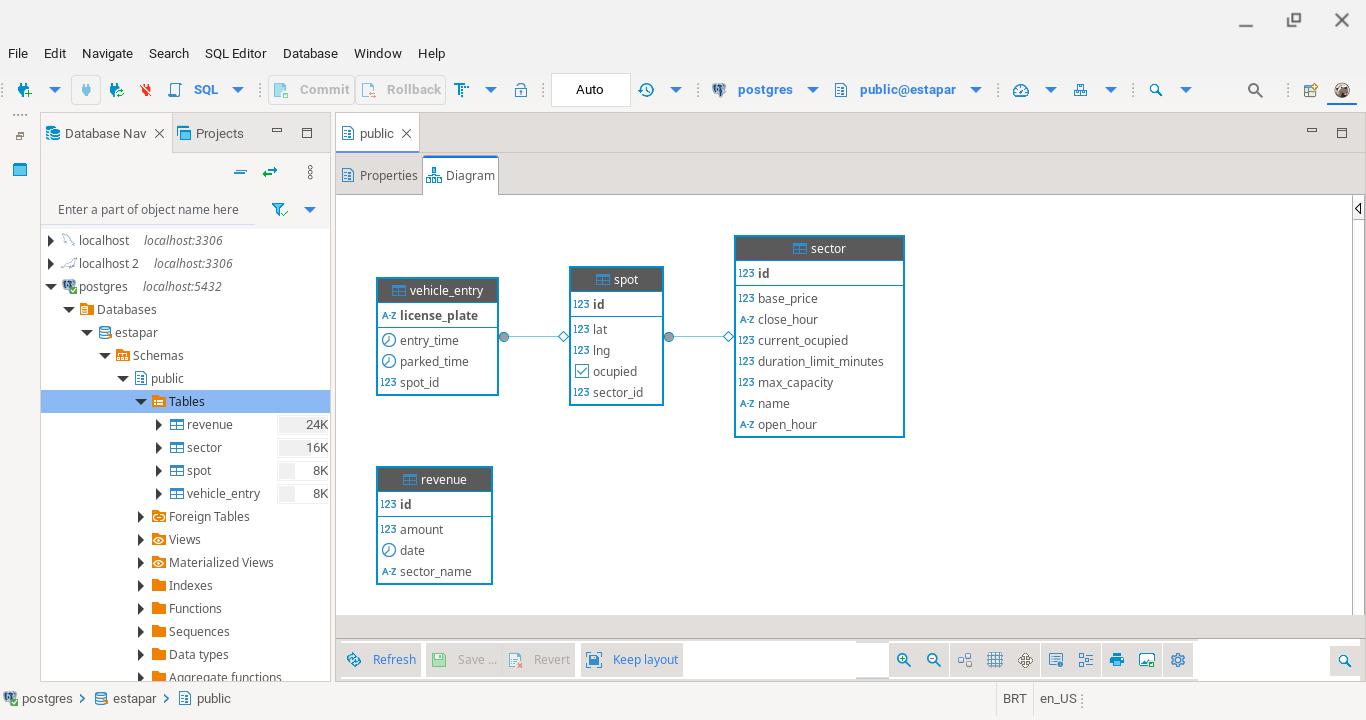
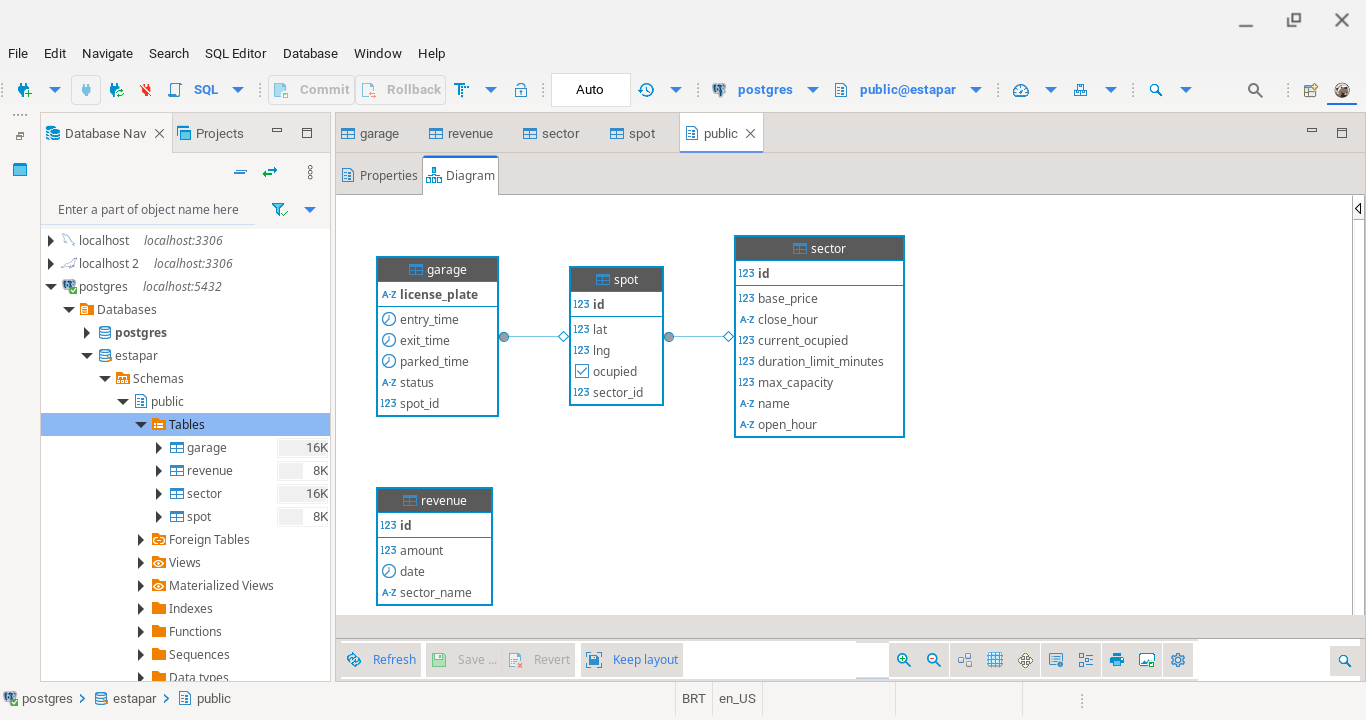
Ajustes nos codigos

diff --git a/src/main/kotlin/com/estapar/service/GarageService.kt b/src/main/kotlin/com/estapar/service/GarageService.kt
@@ -20,7 +20,7 @@ import org.slf4j.LoggerFactory
 open class GarageService(
     private val sectorRepo: SectorRepository,
     private val spotRepo: SpotRepository,
-    private val entryRepo: VehicleEntryRepository,
+    private val garageRepo: GarageRepository,
     private val revenueRepo: RevenueRepository,
     private val objectMapper: ObjectMapper
 ) {
@@ -28,12 +28,12 @@ open class GarageService(
 
     @Transactional
     open fun registerEntry(plate: String, entryTime: Instant) {
-        if (entryRepo.existsById(plate)) {
+        if (garageRepo.existsById(plate)) {
             LOG.warn("ENTRY Event: Vehicle entry for plate {} already exists. Skipping registration.", plate)
             return
         }
-        val newEntry = VehicleEntry(plate, entryTime)
-        entryRepo.save(newEntry)
+        val newEntry = Garage(plate, entryTime)
+        garageRepo.save(newEntry)
         LOG.info("ENTRY Event: Registered new vehicle entry for plate {}. EntryTime: {}", plate, entryTime)
     }
 
@@ -41,12 +41,12 @@ open class GarageService(
     open fun assignSpot(plate: String, lat: Double, lng: Double) {
         LOG.info("PARKED Event: Attempting to assign spot for plate: {}, lat: {}, lng: {}", plate, lat, lng)
 
-        val entry = entryRepo.findById(plate).orElse(null)
+        val entry = garageRepo.findById(plate).orElse(null)
         if (entry == null) {
             LOG.warn("PARKED Event: Vehicle entry not found for plate: {}. Cannot assign spot. This implies ENTRY event was not processed correctly or did not exist.", plate)
             return
         }
-        LOG.debug("PARKED Event: Found VehicleEntry for plate: {}", plate)
+        LOG.debug("PARKED Event: Found Garage for plate: {}", plate)
 
         val spot = spotRepo.findByLatAndLng(lat, lng)
 
@@ -74,7 +74,7 @@ open class GarageService(
         entry.parkedTime = Instant.now()
         entry.spot = savedSpot
         entry.status = "PARKED"
-        val savedEntry = entryRepo.save(entry)
+        val savedEntry = garageRepo.save(entry)
         LOG.info("PARKED Event: Vehicle entry for plate {} updated. ParkedTime: {}, Spot ID: {}. Status: {}", plate, savedEntry.parkedTime, savedEntry.spot?.id, savedEntry.status)
 
         sector.currentOcupied++
@@ -93,12 +93,12 @@ open class GarageService(
             return
         }
 
-        val entry = entryRepo.findById(plate).orElse(null)
+        val entry = garageRepo.findById(plate).orElse(null)
         if (entry == null) {
             LOG.warn("EXIT Event: Vehicle entry not found for plate: {}. Cannot process exit.", plate)
             return
         }
-        LOG.debug("EXIT Event: Found VehicleEntry for plate: {}", plate)
+        LOG.debug("EXIT Event: Found Garage for plate: {}", plate)
 
         var totalRevenueAmount = 0.0
         val spot = entry.spot
@@ -152,14 +152,14 @@ open class GarageService(
         }
 
         entry.exitTime = exitTime
-        entry.status = "EXITED"
+        entry.status = "EXIT"
         entry.spot = null
-        entryRepo.save(entry)
+        garageRepo.save(entry)
         LOG.info("EXIT Event: Vehicle entry for plate {} updated to exited status.", plate)
     }
 
     fun postPlateStatus(licensePlate: String): PlateStatusDTO {
-        val entry = entryRepo.findById(licensePlate).orElse(null)
+        val entry = garageRepo.findById(licensePlate).orElse(null)
         val now = Instant.now()
         val duration = if (entry != null) ((now.toEpochMilli() - (entry.parkedTime ?: entry.entryTime).toEpochMilli()) / 60000).toInt() else 0
         val basePrice = entry?.spot?.sector?.basePrice ?: 0.0
@@ -178,7 +178,7 @@ open class GarageService(
 
     fun postSpotStatus(lat: Double, lng: Double): SpotStatusDTO {
         val spot = spotRepo.findByLatAndLng(lat, lng)
-        val entry = spot?.let { s -> entryRepo.findBySpotAndStatus(s, "PARKED").orElse(null) }
+        val entry = spot?.let { s -> garageRepo.findBySpotAndStatus(s, "PARKED").orElse(null) }
         val now = Instant.now()
         val duration = if (entry != null) ((now.toEpochMilli() - (entry.parkedTime ?: entry.entryTime).toEpochMilli()) / 60000).toInt() else 0
         val basePrice = spot?.sector?.basePrice ?: 0.0

diff --git a/src/test/kotlin/com/estapar/repository/GarageRepositoryTest.kt b/src/test/kotlin/com/estapar/repository/GarageRepositoryTest.kt
@@ -1,0 +1,98 @@
+package com.estapar.repository
+
+import com.estapar.model.Spot
+import com.estapar.model.Sector
+import com.estapar.model.Garage
+import org.junit.jupiter.api.Test
+import org.junit.jupiter.api.extension.ExtendWith
+import org.mockito.Mock
+import org.mockito.junit.jupiter.MockitoExtension
+import org.mockito.kotlin.*
+import java.time.Instant
+import java.util.Optional
+import org.assertj.core.api.Assertions.assertThat
+
+@ExtendWith(MockitoExtension::class)
+class GarageRepositoryTest {
+
+    @Mock
+    private lateinit var garageRepository: GarageRepository
+
+    @Test
+    fun findByIdShouldReturnOptionalOfVehicleEntryWhenFound() {
+        val licensePlate = "ABC1234"
+        val expectedEntry = Garage(licensePlate = licensePlate, entryTime = Instant.now())
+
+        whenever(garageRepository.findById(licensePlate)).thenReturn(Optional.of(expectedEntry))
+
+        val result = garageRepository.findById(licensePlate)
+
+        assertThat(result).isEqualTo(Optional.of(expectedEntry))
+        verify(garageRepository).findById(eq(licensePlate))
+    }
+
+    @Test
+    fun saveShouldPersistANewVehicleEntry() {
+        val newEntry = Garage(licensePlate = "NEW4567", entryTime = Instant.now())
+
+        whenever(garageRepository.save(argThat { entry -> entry.licensePlate == newEntry.licensePlate && entry.entryTime == newEntry.entryTime }))
+            .doAnswer { invocation ->
+                invocation.getArgument<Garage>(0)
+            }
+
+        val result = garageRepository.save(newEntry)
+
+        assertThat(result.licensePlate).isEqualTo(newEntry.licensePlate)
+        assertThat(result.entryTime).isEqualTo(newEntry.entryTime)
+        assertThat(result).isEqualTo(newEntry)
+    }
+
+    @Test
+    fun deleteByIdShouldRemoveVehicleEntryByLicensePlate() {
+        val licensePlateToDelete = "DEL7890"
+
+        garageRepository.deleteById(licensePlateToDelete)
+
+        verify(garageRepository).deleteById(eq(licensePlateToDelete))
+    }
+
+    @Test
+    fun existsByIdShouldReturnTrueIfEntryExists() {
+        val licensePlate = "EXIST111"
+        whenever(garageRepository.existsById(licensePlate)).thenReturn(true)
+
+        val result = garageRepository.existsById(licensePlate)
+
+        assertThat(result).isTrue()
+        verify(garageRepository).existsById(eq(licensePlate))
+    }
+
+    @Test
+    fun existsByIdShouldReturnFalseIfEntryDoesNotExist() {
+        val licensePlate = "NONEXIST222"
+        whenever(garageRepository.existsById(licensePlate)).thenReturn(false)
+
+        val result = garageRepository.existsById(licensePlate)
+
+        assertThat(result).isFalse()
+        verify(garageRepository).existsById(eq(licensePlate))
+    }
+
+    @Test
+    fun findAllShouldReturnAllVehicleEntries() {
+        val mockSector = Sector(id = 100L, name = "Parking", basePrice = 5.0, maxCapacity = 10, openHour = "06", closeHour = "22", durationLimitMinutes = 180)
+        val mockSpot1 = Spot(id = 1L, sector = mockSector, lat = 10.0, lng = 20.0, ocupied = true)
+        val mockSpot2 = Spot(id = 2L, sector = mockSector, lat = 11.0, lng = 21.0, ocupied = false)
+
+        val entries = listOf(
+            Garage(licensePlate = "VEH001", entryTime = Instant.now().minusSeconds(3600), spot = mockSpot1, parkedTime = Instant.now().minusSeconds(3000)),
+            Garage(licensePlate = "VEH002", entryTime = Instant.now().minusSeconds(1800), spot = mockSpot2, parkedTime = Instant.now().minusSeconds(1200))
+        )
+        whenever(garageRepository.findAll()).thenReturn(entries)
+
+        val result = garageRepository.findAll()
+
+        assertThat(result).isEqualTo(entries)
+        verify(garageRepository).findAll()
+    }
+}

diff --git a/src/test/kotlin/com/estapar/repository/SpotRepositoryTest.kt b/src/test/kotlin/com/estapar/repository/SpotRepositoryTest.kt
@@ -17,7 +17,7 @@ class SpotRepositoryTest {
     private lateinit var spotRepository: SpotRepository
 
     @Test
-    fun `findByLatAndLng should return spot when found`() {
+    fun findByLatAndLngShouldReturnSpotWhenFound() {
         val lat = -23.5
         val lng = -46.6
         val mockSector = Sector(id = 1L, name = "A", basePrice = 10.0, maxCapacity = 100, openHour = "08", closeHour = "20", durationLimitMinutes = 300)
@@ -32,7 +32,7 @@ class SpotRepositoryTest {
     }
 
     @Test
-    fun `findByLatAndLng should return null when not found`() {
+    fun findByLatAndLngShouldReturnNullWhenNotFound() {
         val lat = -99.0
         val lng = -99.0
 
@@ -45,7 +45,7 @@ class SpotRepositoryTest {
     }
 
     @Test
-    fun `findById should return optional of spot when found`() {
+    fun findByIdShouldReturnOptionalOfSpotWhenFound() {
         val id = 1L
         val mockSector = Sector(id = 1L, name = "A", basePrice = 10.0, maxCapacity = 100, openHour = "08", closeHour = "20", durationLimitMinutes = 300)
         val expectedSpot = Spot(id = id, sector = mockSector, lat = 1.0, lng = 2.0, ocupied = true)
@@ -59,10 +59,10 @@ class SpotRepositoryTest {
     }
 
     @Test
-    fun `save should persist a new spot`() {
+    fun saveShouldPersistANewSpot() {
         val mockSector = Sector(id = 1L, name = "B", basePrice = 20.0, maxCapacity = 50, openHour = "09", closeHour = "18", durationLimitMinutes = 240)
         val newSpot = Spot(sector = mockSector, lat = 3.0, lng = 4.0, ocupied = false)
-        
+
         whenever(spotRepository.save(argThat { spot -> spot.lat == newSpot.lat && spot.lng == newSpot.lng && spot.ocupied == newSpot.ocupied && spot.sector == newSpot.sector }))
             .doAnswer { invocation ->
                 val spotArg = invocation.getArgument<Spot>(0)
@@ -80,7 +80,7 @@ class SpotRepositoryTest {
     }
 
     @Test
-    fun `deleteById should remove spot by id`() {
+    fun deleteByIdShouldRemoveSpotById() {
         val idToDelete = 1L
 
         spotRepository.deleteById(idToDelete)
@@ -89,7 +89,7 @@ class SpotRepositoryTest {
     }
 
     @Test
-    fun `findAll should return all spots`() {
+    fun findAllShouldReturnAllSpots() {
         val mockSector1 = Sector(id = 10L, name = "A", basePrice = 10.0, maxCapacity = 100, openHour = "08", closeHour = "20", durationLimitMinutes = 300)
         val mockSector2 = Sector(id = 20L, name = "B", basePrice = 20.0, maxCapacity = 50, openHour = "09", closeHour = "18", durationLimitMinutes = 240)
         val spots = listOf(

diff --git a/src/test/kotlin/com/estapar/repository/RevenueRepositoryTest.kt b/src/test/kotlin/com/estapar/repository/RevenueRepositoryTest.kt
@@ -17,7 +17,7 @@ class RevenueRepositoryTest {
     private lateinit var revenueRepository: RevenueRepository
 
     @Test
-    fun `findByDateAndSectorName should return revenue when found`() {
+    fun findByDateAndSectorNameShouldReturnRevenueWhenFound() {
         val date = LocalDate.of(2024, 5, 29)
         val sectorName = "TestSector"
         val expectedRevenue = Revenue(id = 1L, date = date, sectorName = sectorName, amount = 150.0)
@@ -31,7 +31,7 @@ class RevenueRepositoryTest {
     }
 
     @Test
-    fun `findByDateAndSectorName should return null when not found`() {
+    fun findByDateAndSectorNameShouldReturnNullWhenNotFound() {
         val date = LocalDate.of(2024, 5, 30)
         val sectorName = "NonExistentSector"
 
@@ -44,7 +44,7 @@ class RevenueRepositoryTest {
     }
 
     @Test
-    fun `findById should return optional of revenue when found`() {
+    fun findByIdShouldReturnOptionalOfRevenueWhenFound() {
         val id = 1L
         val expectedRevenue = Revenue(id = id, date = LocalDate.now(), sectorName = "A", amount = 100.0)
 
@@ -57,9 +57,9 @@ class RevenueRepositoryTest {
     }
 
     @Test
-    fun `save should persist a new revenue`() {
+    fun saveShouldPersistANewRevenue() {
         val newRevenue = Revenue(date = LocalDate.now(), sectorName = "New", amount = 50.0)
-        
+
         whenever(revenueRepository.save(argThat { entity -> entity.date == newRevenue.date && entity.sectorName == newRevenue.sectorName && entity.amount == newRevenue.amount }))
             .doAnswer { invocation ->
                 val revenueArg = invocation.getArgument<Revenue>(0)
@@ -78,7 +78,7 @@ class RevenueRepositoryTest {
     }
 
     @Test
-    fun `deleteById should remove revenue by id`() {
+    fun deleteByIdShouldRemoveRevenueById() {
         val idToDelete = 1L
 
         revenueRepository.deleteById(idToDelete)
@@ -87,7 +87,7 @@ class RevenueRepositoryTest {
     }
 
     @Test
-    fun `findAll should return all revenues`() {
+    fun findAllShouldReturnAllRevenues() {
         val revenues = listOf(
             Revenue(id = 1L, date = LocalDate.now(), sectorName = "A", amount = 10.0),
             Revenue(id = 2L, date = LocalDate.now(), sectorName = "B", amount = 20.0)

diff --git a/src/test/kotlin/com/estapar/repository/SectorRepositoryTest.kt b/src/test/kotlin/com/estapar/repository/SectorRepositoryTest.kt
@@ -16,7 +16,7 @@ class SectorRepositoryTest {
     private lateinit var sectorRepository: SectorRepository
 
     @Test
-    fun `findById should return optional of sector when found`() {
+    fun findByIdShouldReturnOptionalOfSectorWhenFound() {
         val id = 1L
         val expectedSector = Sector(id = id, name = "A", basePrice = 10.0, maxCapacity = 100, openHour = "08", closeHour = "20", durationLimitMinutes = 300)
 
@@ -29,9 +29,9 @@ class SectorRepositoryTest {
     }
 
     @Test
-    fun `save should persist a new sector`() {
+    fun saveShouldPersistANewSector() {
         val newSector = Sector(name = "New", basePrice = 15.0, maxCapacity = 50, openHour = "09", closeHour = "18", durationLimitMinutes = 240)
-        
+
         whenever(sectorRepository.save(argThat { sector -> sector.name == newSector.name && sector.basePrice == newSector.basePrice }))
             .doAnswer { invocation ->
                 val sectorArg = invocation.getArgument<Sector>(0)
@@ -49,7 +49,7 @@ class SectorRepositoryTest {
     }
 
     @Test
-    fun `deleteById should remove sector by id`() {
+    fun deleteByIdShouldRemoveSectorById() {
         val idToDelete = 1L
 
         sectorRepository.deleteById(idToDelete)
@@ -58,7 +58,7 @@ class SectorRepositoryTest {
     }
 
     @Test
-    fun `findAll should return all sectors`() {
+    fun findAllShouldReturnAllSectors() {
         val sectors = listOf(
             Sector(id = 1L, name = "A", basePrice = 10.0, maxCapacity = 100, openHour = "08", closeHour = "20", durationLimitMinutes = 300),
             Sector(id = 2L, name = "B", basePrice = 20.0, maxCapacity = 200, openHour = "07", closeHour = "22", durationLimitMinutes = 400)

diff --git a/src/main/kotlin/com/estapar/repository/GarageRepository.kt b/src/main/kotlin/com/estapar/repository/GarageRepository.kt
@@ -1,12 +1,12 @@
 package com.estapar.repository
 
 import com.estapar.model.Spot
-import com.estapar.model.VehicleEntry
+import com.estapar.model.Garage
 import io.micronaut.data.annotation.Repository
 import io.micronaut.data.jpa.repository.JpaRepository
 import java.util.Optional
 
 @Repository
-interface VehicleEntryRepository : JpaRepository<VehicleEntry, String> {
-    fun findBySpotAndStatus(spot: Spot, status: String): Optional<VehicleEntry>
+interface GarageRepository : JpaRepository<Garage, String> {
+    fun findBySpotAndStatus(spot: Spot, status: String): Optional<Garage>
 }

diff --git a/src/main/kotlin/com/estapar/controller/WebhookParkingController.kt b/src/main/kotlin/com/estapar/controller/WebhookParkingController.kt
@@ -3,11 +3,10 @@ package com.estapar.controller
 import com.estapar.service.WebhookService
 import io.micronaut.http.HttpResponse
 import io.micronaut.http.annotation.*
-import com.fasterxml.jackson.databind.ObjectMapper
 import java.time.format.DateTimeParseException
 
 @Controller("/webhook")
-class WebhookGarageController(
+class WebhookParkingController(
     private val webhookService: WebhookService
 ) {
 

diff --git a/src/main/kotlin/com/estapar/controller/ApiParkingController.kt b/src/main/kotlin/com/estapar/controller/ApiParkingController.kt
@@ -9,7 +9,7 @@ import com.estapar.dto.RevenueDTO
 import com.estapar.dto.GarageInfoDTO
 
 @Controller("/api")
-class ApiGarageController(
+class ApiParkingController(
     private val garageService: GarageService
 ) {
     @Post("/plate-status")

diff --git a/src/main/kotlin/com/estapar/model/Garage.kt b/src/main/kotlin/com/estapar/model/Garage.kt
@@ -4,7 +4,7 @@ import jakarta.persistence.*
 import java.time.Instant
 
 @Entity
-data class VehicleEntry(
+data class Garage(
     @Id
     var licensePlate: String,
     val entryTime: Instant,

diff --git a/README.md b/README.md
@@ -9,7 +9,7 @@ O objetivo é criar um sistema de gestão de estacionamentos, que controla o nú
 * Kotlin 1.9.10
 * Java JDK 21
 * Gradle 4.4.1
-* PostgreSql 14
+* PostgreSql 16
 * Docker 28.0.1
 
 ## Tecnologias Utilizadas
